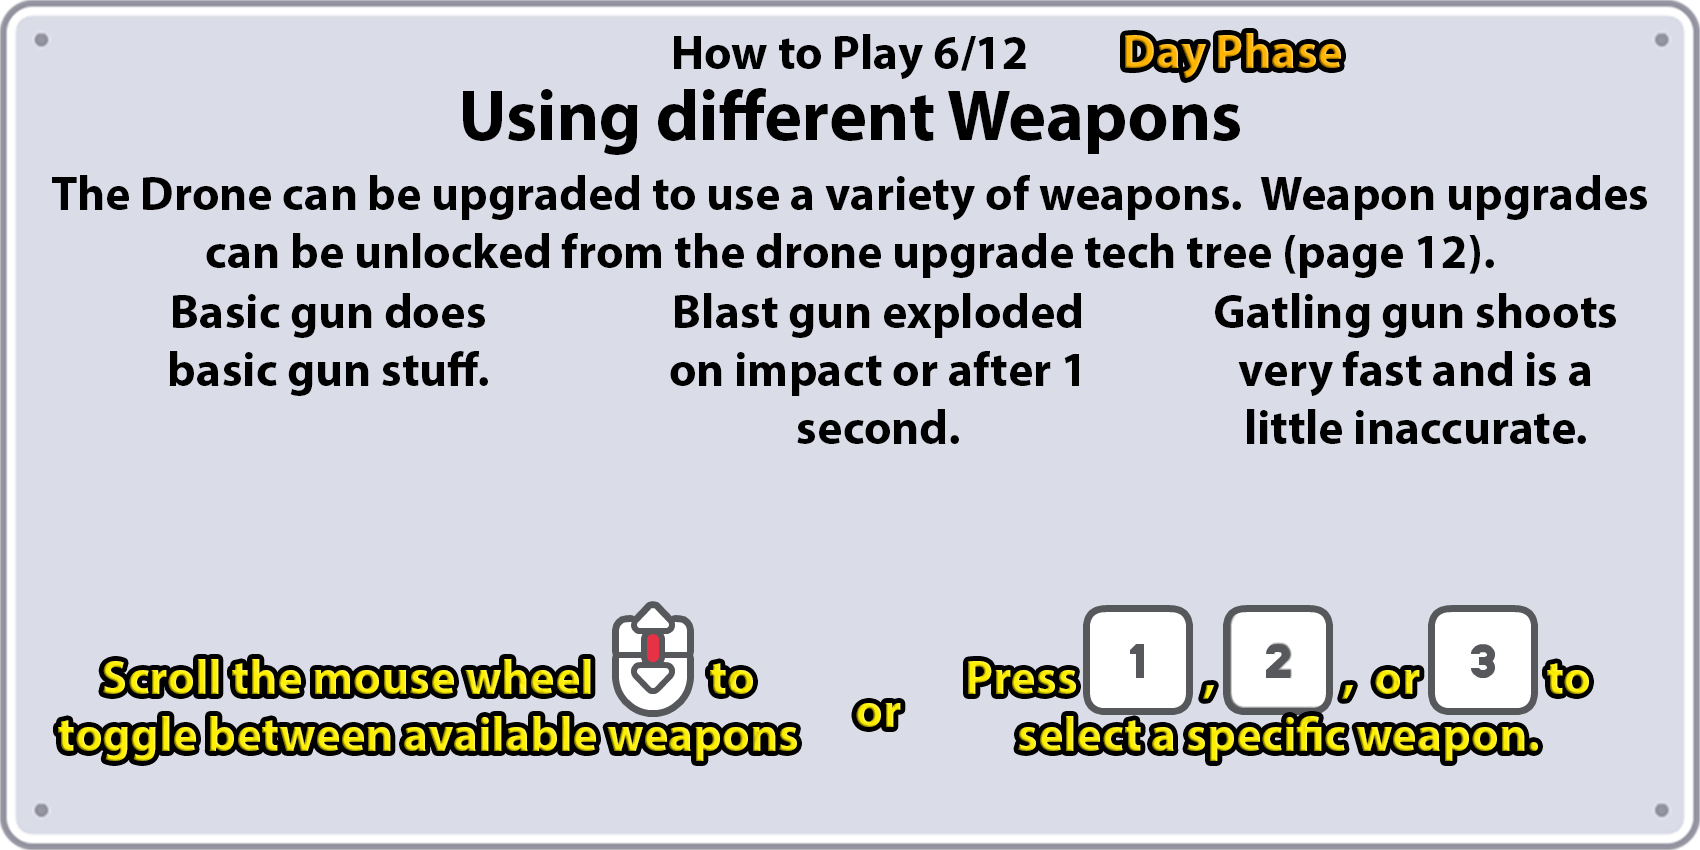
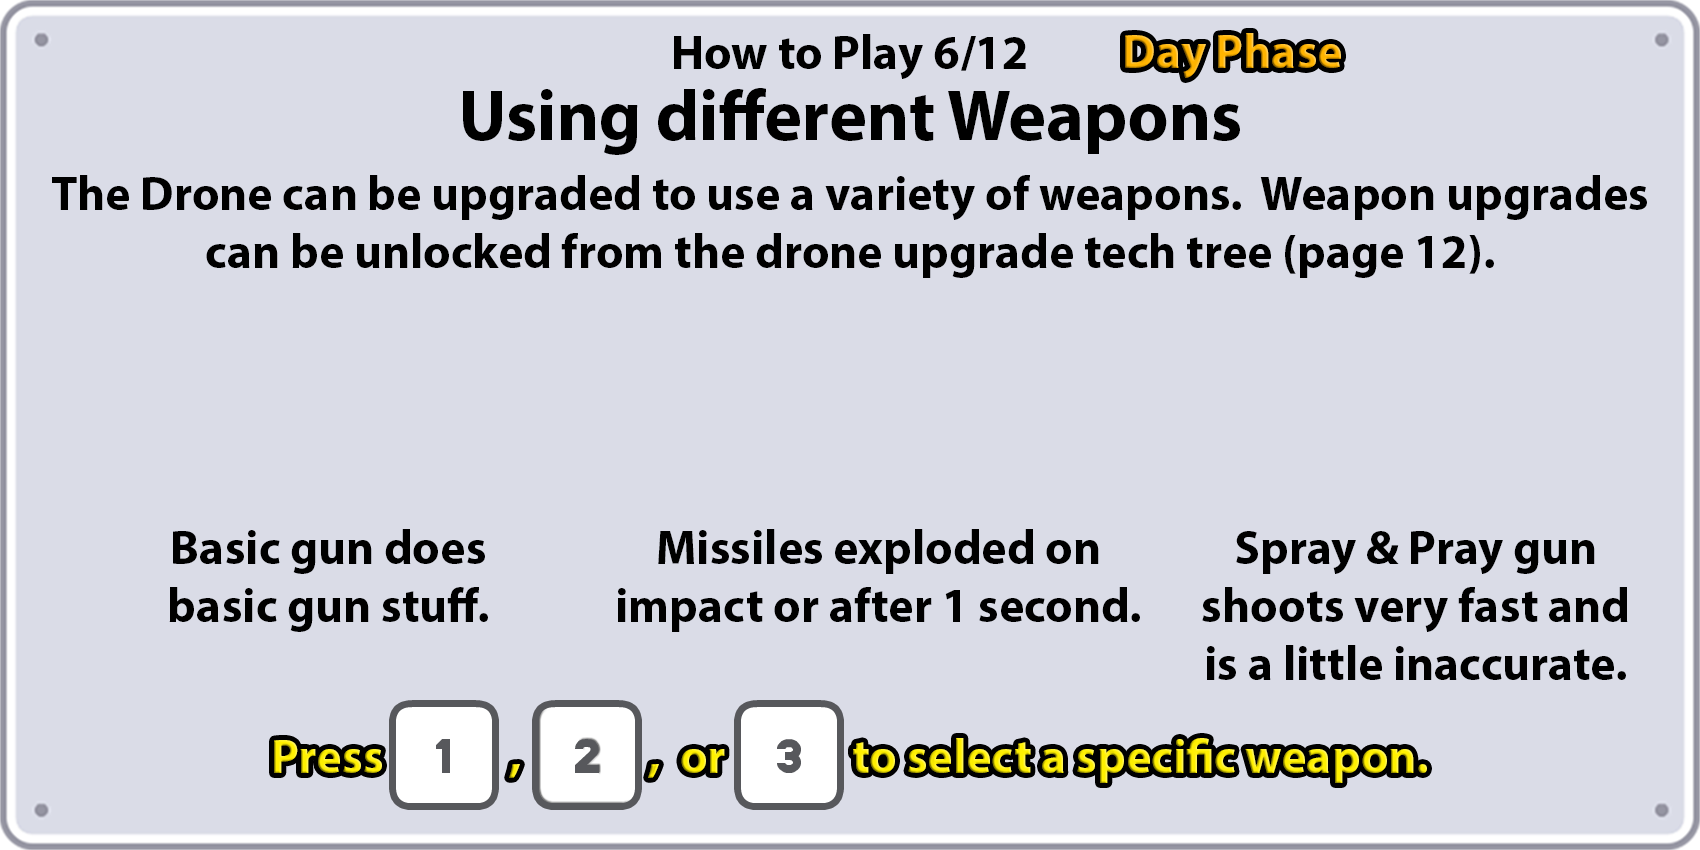
missile can no longer trigger other missile explosions.  Other bullets still can.  Tutorial now shows some info for weapons.

diff --git a/README.md b/README.md
@@ -13,7 +13,6 @@ TODO:
 - TODO List
 
 Resources Used
-- Arrow image from Godot World project
 - Splosion image from Godot World project
 - kenney_ui-pack-space-expansion from https://kenney.nl/
 - kenney_cursor-pack from https://kenney.nl/
